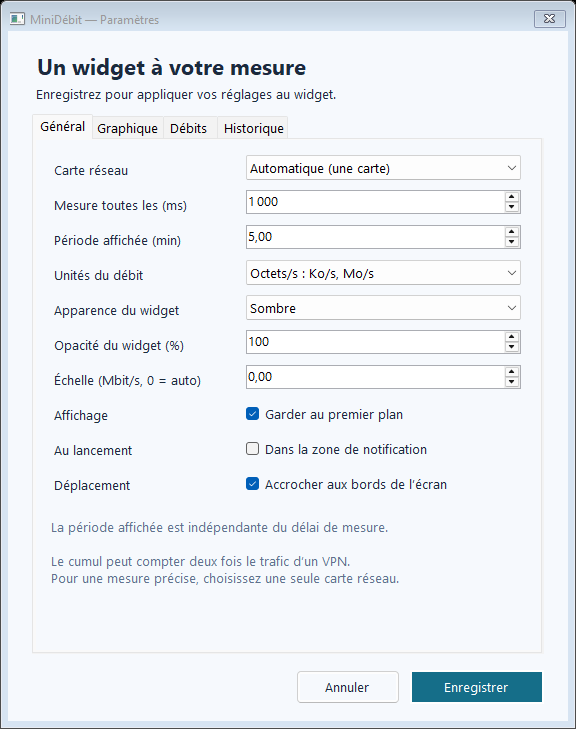
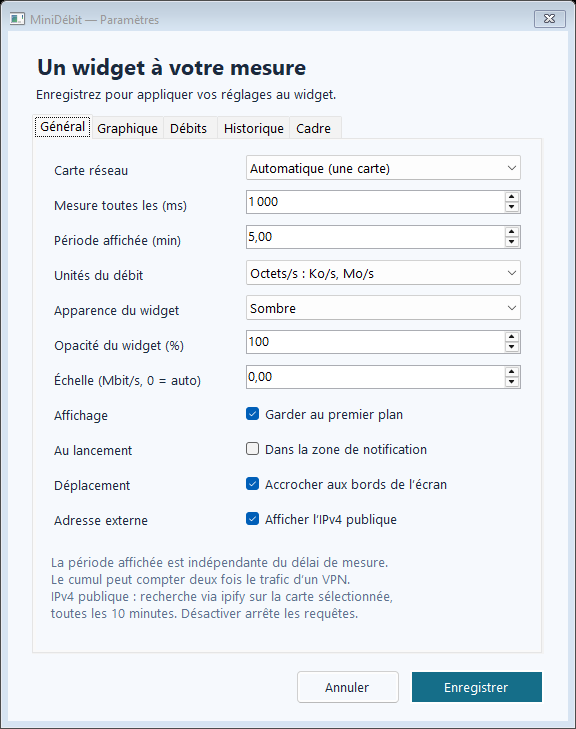
Ajout IPv4 publique et placement des réglages
Cette mise à jour ajoute la détection de l’IPv4 publique de la carte sélectionnée via ipify, avec cache, délai de réessai et gestion des erreurs. La version passe à 1.1.6, les paramètres incluent un bouton pour afficher ou masquer cette adresse, et le widget affiche cette information dans le bandeau sans bloquer les mesures. Le placement des paramètres s’adapte aux écrans et la documentation/tests sont alignés sur ce comportement.

Changed region(s): [[0.0625, 0.6941, 0.6875, 0.845], [0.5312, 0.1509, 0.5625, 0.1811]]

diff --git a/Bandwidth/PublicIpv4.cs b/Bandwidth/PublicIpv4.cs
@@ -1,0 +1,90 @@
+using System.Net;
+using System.Net.Sockets;
+
+namespace MiniDebit;
+
+public sealed record PublicIpv4Target(string AdapterId, IPAddress Address, int InterfaceIndex);
+
+public sealed class PublicIpv4 : IDisposable
+{
+    private readonly Func<PublicIpv4Target, CancellationToken, Task<string?>> lookup;
+    private PublicIpv4Target? target;
+    private Task<(string? Address, string? Error)>? pending;
+    private CancellationTokenSource? cancellation;
+    private long nextAttempt;
+    public string? Address { get; private set; }
+    public string? LastError { get; private set; }
+    public PublicIpv4(Func<PublicIpv4Target, CancellationToken, Task<string?>>? lookup = null) => this.lookup = lookup ?? LookupAsync;
+
+    // The UI timer only consumes completed results; all network operations run in the background.
+    public void Update(PublicIpv4Target? selected, bool enabled)
+    {
+        if (!enabled) selected = null;
+        if (selected != target) { Cancel(); target = selected; Address = null; LastError = null; nextAttempt = 0; }
+        if (target is null) return;
+        long now = Environment.TickCount64;
+        if (pending?.IsCompleted == true)
+        {
+            (Address, LastError) = pending.GetAwaiter().GetResult();
+            pending = null; cancellation?.Dispose(); cancellation = null;
+            nextAttempt = now + (Address is null ? 60_000 : 600_000);
+        }
+        if (pending is not null || now < nextAttempt) return;
+        var current = target;
+        cancellation = new CancellationTokenSource(TimeSpan.FromSeconds(8));
+        var token = cancellation.Token;
+        pending = Task.Run(async () =>
+        {
+            try { var result = Parse(await lookup(current, token)); return (Address: result, Error: result is null ? "Réponse IPv4 invalide" : null); }
+            catch (Exception ex) when (ex is HttpRequestException or SocketException or IOException or OperationCanceledException)
+            { return (Address: (string?)null, Error: (string?)ex.Message); }
+        });
+    }
+
+    public static string? Parse(string? text)
+    {
+        var value = text?.Trim();
+        if (value is null || value.Length > 15 || value.Split('.').Length != 4 ||
+            !IPAddress.TryParse(value, out var ip) || ip.AddressFamily != AddressFamily.InterNetwork) return null;
+        var b = ip.GetAddressBytes();
+        if (b[0] is 0 or 10 or 127 || b[0] >= 224 || (b[0] == 169 && b[1] == 254) ||
+            (b[0] == 192 && b[1] == 168) || (b[0] == 172 && b[1] is >= 16 and <= 31) ||
+            (b[0] == 100 && b[1] is >= 64 and <= 127)) return null;
+        return ip.ToString();
+    }
+
+    public static async Task<string?> LookupAsync(PublicIpv4Target target, CancellationToken token)
+    {
+        using var handler = new SocketsHttpHandler { UseProxy = false, AllowAutoRedirect = false };
+        handler.ConnectCallback = async (context, cancellation) =>
+        {
+            var addresses = await Dns.GetHostAddressesAsync(context.DnsEndPoint.Host, AddressFamily.InterNetwork, cancellation);
+            foreach (var address in addresses)
+            {
+                var socket = new Socket(AddressFamily.InterNetwork, SocketType.Stream, ProtocolType.Tcp);
+                try
+                {
+                    // Windows IP_UNICAST_IF requires the interface index in network byte order.
+                    socket.SetSocketOption(SocketOptionLevel.IP, (SocketOptionName)31, IPAddress.HostToNetworkOrder(target.InterfaceIndex));
+                    socket.Bind(new IPEndPoint(target.Address, 0));
+                    await socket.ConnectAsync(new IPEndPoint(address, context.DnsEndPoint.Port), cancellation);
+                    return new NetworkStream(socket, ownsSocket: true);
+                }
+                catch (SocketException) { socket.Dispose(); }
+                catch { socket.Dispose(); throw; }
+            }
+            throw new HttpRequestException("Connexion IPv4 indisponible sur cette carte.");
+        };
+        using var client = new HttpClient(handler) { Timeout = TimeSpan.FromSeconds(8) };
+        using var response = await client.GetAsync("https://api.ipify.org", HttpCompletionOption.ResponseHeadersRead, token);
+        response.EnsureSuccessStatusCode();
+        using var stream = await response.Content.ReadAsStreamAsync(token);
+        var bytes = new byte[64];
+        int count = 0, read;
+        while (count < bytes.Length && (read = await stream.ReadAsync(bytes.AsMemory(count), token)) > 0) count += read;
+        return Parse(System.Text.Encoding.ASCII.GetString(bytes, 0, count));
+    }
+
+    private void Cancel() { cancellation?.Cancel(); cancellation?.Dispose(); cancellation = null; pending = null; }
+    public void Dispose() => Cancel();
+}

diff --git a/Bandwidth/Widget.cs b/Bandwidth/Widget.cs
@@ -10,6 +10,7 @@ public sealed class Widget : Form
     private readonly Settings settings;
     private readonly bool diagnostic;
     private readonly NetworkMonitor monitor = new();
+    private readonly PublicIpv4 publicIpv4 = new();
     private readonly WindowDrag drag = new();
     private readonly HistoryRecorder recorder;
     private readonly Queue<Sample> history = new();
@@ -33,6 +34,9 @@ public sealed class Widget : Form
     private double scale = 125000;
     private TrafficPeak visiblePeak;
     public string MonitorStatus => monitor.Status;
+    public string? ExternalIpv4 => publicIpv4.Address;
+    public string? ExternalIpv4Error => publicIpv4.LastError;
+    private string AdapterCaption => publicIpv4.Address is { } address ? $"{monitor.Status} ({address})" : monitor.Status;
     public int SampleCount { get; private set; }
     public double TotalDown => monitor.TotalDown;
     public double TotalUp => monitor.TotalUp;
@@ -107,6 +111,7 @@ public sealed class Widget : Form
     private void ApplySettings()
     {
         settings.Normalize();
+        publicIpv4.Update(monitor.PublicIpv4Target, settings.ShowPublicIpv4);
         recorder.Configure(settings.Storage);
         var numbers = settings.Rates.CreateFont();
         var captions = settings.Rates.CreateFont(true);
@@ -122,6 +127,7 @@ public sealed class Widget : Form
     private void Tick()
     {
         current = monitor.Poll(settings.AdapterId);
+        publicIpv4.Update(monitor.PublicIpv4Target, settings.ShowPublicIpv4);
         recorder.Record(current, monitor.ActiveAdapterKey, monitor.Status, settings.IntervalMs);
         SampleCount++;
         history.Enqueue(current);
@@ -138,7 +144,7 @@ public sealed class Widget : Form
         {
             var text = $"MiniDébit · ↓ {Units.Rate(current.Down, settings.Bits)} · ↑ {Units.Rate(current.Up, settings.Bits)}";
             tray.Text = text.Length > 63 ? text[..63] : text;
-            tooltip.SetToolTip(this, $"{monitor.Status}\nSession : ↓ {Units.Volume(monitor.TotalDown)}   ↑ {Units.Volume(monitor.TotalUp)}\nÉchelle : {Units.Rate(scale, settings.Bits)} • Période : {Units.Duration(settings.HistorySeconds)}\nClic droit ou double-clic : paramètres");
+            tooltip.SetToolTip(this, $"{AdapterCaption}\nSession : ↓ {Units.Volume(monitor.TotalDown)}   ↑ {Units.Volume(monitor.TotalUp)}\nÉchelle : {Units.Rate(scale, settings.Bits)} • Période : {Units.Duration(settings.HistorySeconds)}\nClic droit ou double-clic : paramètres");
         }
         if (Visible) Invalidate();
     }
@@ -181,7 +187,7 @@ public sealed class Widget : Form
             using var accent = new SolidBrush(DownColor);
             g.FillEllipse(accent, 13, 14, 6, 6);
             DrawText(g, "MINIDÉBIT", titleFont, Foreground, new RectangleF(25, 8, 105, 20));
-            DrawText(g, monitor.Status, smallFont, Muted, new RectangleF(13, 30, w - 26, 16));
+            DrawText(g, AdapterCaption, smallFont, Muted, new RectangleF(13, 30, w - 26, 16));
             DrawButton(g, 0, "⚙", w - 81);
             DrawButton(g, 1, "−", w - 55);
             DrawButton(g, 2, "×", w - 29);
@@ -380,6 +386,7 @@ public sealed class Widget : Form
     private void OpenSettings()
     {
         using var dialog = new SettingsForm(settings, ownedIcon!, () => recorder.Status);
+        if (Visible) { dialog.StartPosition = FormStartPosition.Manual; dialog.Location = Location; }
         if (dialog.ShowDialog(this) != DialogResult.OK) return;
         if (dialog.MeasurementChanged) ResetMeasurements();
         ApplySettings();
@@ -413,6 +420,7 @@ public sealed class Widget : Form
     protected override void OnFormClosing(FormClosingEventArgs e)
     {
         timer.Stop();
+        publicIpv4.Dispose();
         recorder.Dispose();
         SaveSettings();
         base.OnFormClosing(e);
@@ -424,6 +432,7 @@ public sealed class Widget : Form
         {
             timer.Dispose(); tray.Dispose(); menu.Dispose(); tooltip.Dispose();
             recorder.Dispose();
+            publicIpv4.Dispose();
             titleFont.Dispose(); smallFont.Dispose(); rateFont.Dispose(); labelFont.Dispose(); arrowFont.Dispose(); ownedIcon?.Dispose();
         }
         base.Dispose(disposing);

diff --git a/Bandwidth/SettingsForm.cs b/Bandwidth/SettingsForm.cs
@@ -9,6 +9,18 @@ public sealed class SettingsForm : Form
     internal void SelectHistoryTab() => tabs.SelectedIndex = 3;
     internal void SelectFrameTab() => tabs.SelectedIndex = 4;
 
+    protected override void OnLoad(EventArgs e)
+    {
+        base.OnLoad(e);
+        if (Owner is Widget widget && widget.Visible)
+        {
+            var current = Screen.FromRectangle(widget.Bounds);
+            var areas = Screen.AllScreens.OrderBy(screen => screen.DeviceName == current.DeviceName ? 0 : 1)
+                .Select(screen => screen.WorkingArea).ToArray();
+            Location = WindowPlacement.Beside(Size, widget.Bounds, areas, (int)Math.Round(12 * DeviceDpi / 96f));
+        }
+    }
+
     public SettingsForm(Settings settings, Icon icon, Func<string>? storageStatus = null)
     {
         Text = "MiniDébit — Paramètres";
@@ -54,7 +66,7 @@ public sealed class SettingsForm : Form
             table.Controls.Add(new Label { Text = label, Dock = DockStyle.Fill, TextAlign = ContentAlignment.MiddleLeft }, 0, row);
             table.Controls.Add(control, 1, row);
         }
-        var table = Table(general, 10, 35);
+        var table = Table(general, 11, 35);
         var adapter = Choice(new AdapterChoice("auto", "Automatique (une carte)"), new AdapterChoice("all", "Toutes les cartes (cumul)"));
         try { adapter.Items.AddRange(NetworkMonitor.Choices().Cast<object>().ToArray()); }
         catch (System.Net.NetworkInformation.NetworkInformationException) { }
@@ -76,7 +88,9 @@ public sealed class SettingsForm : Form
         Row(table, 8, "Au lancement", hidden);
         var snap = new CheckBox { Text = "Accrocher aux bords de l’écran", Checked = settings.SnapToEdges, Dock = DockStyle.Fill };
         Row(table, 9, "Déplacement", snap);
-        general.Controls.Add(new Label { Location = new Point(12, 378), Size = new Size(476, 80), ForeColor = Color.FromArgb(94, 115, 141), Text = "La période affichée est indépendante du délai de mesure.\n\nLe cumul peut compter deux fois le trafic d’un VPN.\nPour une mesure précise, choisissez une seule carte réseau." });
+        var showPublicIpv4 = new CheckBox { Text = "Afficher l’IPv4 publique", Checked = settings.ShowPublicIpv4, Dock = DockStyle.Fill };
+        Row(table, 10, "Adresse externe", showPublicIpv4);
+        general.Controls.Add(new Label { Location = new Point(12, 413), Size = new Size(476, 85), ForeColor = Color.FromArgb(94, 115, 141), Text = "La période affichée est indépendante du délai de mesure.\nLe cumul peut compter deux fois le trafic d’un VPN.\nIPv4 publique : recherche via ipify sur la carte sélectionnée,\ntoutes les 10 minutes. Désactiver arrête les requêtes." });
 
         var appearance = settings.Graph;
         var graphTable = Table(graph, 12, 30);
@@ -274,6 +288,7 @@ public sealed class SettingsForm : Form
             settings.AlwaysOnTop = onTop.Checked;
             settings.StartHidden = hidden.Checked;
             settings.SnapToEdges = snap.Checked;
+            settings.ShowPublicIpv4 = showPublicIpv4.Checked;
             settings.Graph = ReadAppearance();
             settings.Rates = ReadRates();
             settings.Frame = ReadFrame();

diff --git a/Tests/Program.cs b/Tests/Program.cs
@@ -8,6 +8,44 @@ void Check(bool condition, string description)
     Console.WriteLine($"OK {++count:00} — {description}");
 }
 var now = DateTimeOffset.Now;
+Check(PublicIpv4.Parse("203.0.113.42\n") == "203.0.113.42" && PublicIpv4.Parse("2001:db8::1") is null &&
+    PublicIpv4.Parse("192.168.1.2") is null && PublicIpv4.Parse("<html>Erreur</html>") is null,
+    "La réponse externe doit contenir une IPv4, jamais une IP locale ou une page d’erreur");
+int ipCalls = 0;
+var ipAnswer = new TaskCompletionSource<string?>(TaskCreationOptions.RunContinuationsAsynchronously);
+using var ipStarted = new ManualResetEventSlim();
+var ipTarget = new PublicIpv4Target("test", System.Net.IPAddress.Parse("192.168.1.2"), 1);
+using (var resolver = new PublicIpv4((_, _) => { Interlocked.Increment(ref ipCalls); ipStarted.Set(); return ipAnswer.Task; }))
+{
+    resolver.Update(ipTarget, false);
+    Check(ipCalls == 0 && resolver.Address is null, "L’IPv4 publique désactivée ne lance aucune requête");
+    resolver.Update(ipTarget, true);
+    Check(ipStarted.Wait(2000) && resolver.Address is null, "Une requête inachevée ne bloque pas le minuteur");
+    ipAnswer.SetResult("203.0.113.42");
+    Check(SpinWait.SpinUntil(() => { resolver.Update(ipTarget, true); return resolver.Address is not null; }, 2000),
+        "Le résultat asynchrone devient disponible pour le bandeau");
+    for (int i = 0; i < 100; i++) resolver.Update(ipTarget, true);
+    Check(ipCalls == 1, "Le cache évite une requête Internet à chaque mesure");
+    resolver.Update(ipTarget, false);
+    Check(resolver.Address is null, "Désactiver masque immédiatement l’adresse mémorisée");
+}
+var oldAnswer = new TaskCompletionSource<string?>(TaskCreationOptions.RunContinuationsAsynchronously);
+using var oldStarted = new ManualResetEventSlim();
+using (var resolver = new PublicIpv4((_, _) => { oldStarted.Set(); return oldAnswer.Task; }))
+{
+    resolver.Update(ipTarget, true); oldStarted.Wait(2000);
+    resolver.Update(null, true); oldAnswer.SetResult("203.0.113.42");
+    resolver.Update(null, true);
+    Check(resolver.Address is null, "Une réponse tardive d’une ancienne carte ne peut pas être affichée");
+}
+using var errorStarted = new ManualResetEventSlim();
+int errorCalls = 0;
+using (var resolver = new PublicIpv4((_, _) => { Interlocked.Increment(ref errorCalls); errorStarted.Set(); throw new System.Net.Http.HttpRequestException("test"); }))
+{
+    resolver.Update(ipTarget, true); errorStarted.Wait(2000);
+    Thread.Sleep(20); resolver.Update(ipTarget, true);
+    Check(resolver.Address is null && errorCalls == 1, "Une erreur Internet laisse les mesures fonctionner sans réessai immédiat");
+}
 var desktop = new System.Drawing.Rectangle(0, 0, 1920, 1040);
 var slowDrag = new WindowDrag();
 var dragged = new System.Drawing.Rectangle(0, 0, 340, 176);

diff --git a/Bandwidth/NetworkMonitor.cs b/Bandwidth/NetworkMonitor.cs
@@ -66,6 +66,7 @@ public sealed class NetworkMonitor
     private readonly RateAccumulator accumulator = new();
     public string Status { get; private set; } = "Initialisation…";
     public string ActiveAdapterKey { get; private set; } = "";
+    public PublicIpv4Target? PublicIpv4Target { get; private set; }
     public double TotalDown => accumulator.TotalDown;
     public double TotalUp => accumulator.TotalUp;
 
@@ -82,7 +83,8 @@ public sealed class NetworkMonitor
         if (selection != adapterId) { Reset(); selection = adapterId; }
         try
         {
-            if (lastRefresh == 0 || Stopwatch.GetElapsedTime(lastRefresh, now).TotalSeconds >= 5)
+            bool refreshed = lastRefresh == 0 || Stopwatch.GetElapsedTime(lastRefresh, now).TotalSeconds >= 5;
+            if (refreshed)
             {
                 adapters = NetworkInterface.GetAllNetworkInterfaces();
                 lastRefresh = now;
@@ -112,6 +114,20 @@ public sealed class NetworkMonitor
             }
             Status = counters.Count == 0 ? "Aucune interface active" : adapterId == "all" ? $"{counters.Count} interfaces • cumul" : selected[0].Name;
             ActiveAdapterKey = string.Join(",", counters.Select(c => c.Id));
+            if (counters.Count != 1 || selected.Length != 1) PublicIpv4Target = null;
+            else if (refreshed || PublicIpv4Target?.AdapterId != selected[0].Id)
+            {
+                PublicIpv4Target = null;
+                try
+                {
+                    var properties = selected[0].GetIPProperties();
+                    var address = properties.UnicastAddresses.FirstOrDefault(a => a.Address.AddressFamily == System.Net.Sockets.AddressFamily.InterNetwork &&
+                        !System.Net.IPAddress.IsLoopback(a.Address) && !a.Address.ToString().StartsWith("169.254.", StringComparison.Ordinal));
+                    if (address is not null && properties.GetIPv4Properties() is { } ipv4)
+                        PublicIpv4Target = new(selected[0].Id, address.Address, ipv4.Index);
+                }
+                catch (Exception ex) when (ex is NetworkInformationException or PlatformNotSupportedException) { }
+            }
             var elapsed = lastSample == 0 ? 0 : Stopwatch.GetElapsedTime(lastSample, now).TotalSeconds;
             lastSample = now;
             return accumulator.Update(counters, elapsed, DateTimeOffset.Now);
@@ -120,6 +136,7 @@ public sealed class NetworkMonitor
         {
             Status = "Mesure indisponible";
             ActiveAdapterKey = "";
+            PublicIpv4Target = null;
             lastRefresh = 0;
             lastSample = now;
             return accumulator.Update([], 0, DateTimeOffset.Now);

diff --git a/Bandwidth/WindowPlacement.cs b/Bandwidth/WindowPlacement.cs
@@ -2,6 +2,30 @@ namespace MiniDebit;
 
 public static class WindowPlacement
 {
+    public static Point Beside(Size size, Rectangle widget, IReadOnlyList<Rectangle> workingAreas, int gap)
+    {
+        Rectangle? fallback = null;
+        long leastOverlap = long.MaxValue;
+        foreach (var area in workingAreas)
+        {
+            Point[] candidates = [new(widget.Right + gap, widget.Top), new(widget.Left - size.Width - gap, widget.Top),
+                new(widget.Left, widget.Top - size.Height - gap), new(widget.Left, widget.Bottom + gap),
+                area.Location, new(area.Right - size.Width, area.Top), new(area.Left, area.Bottom - size.Height),
+                new(area.Right - size.Width, area.Bottom - size.Height)];
+            foreach (var candidate in candidates)
+            {
+                var placed = new Rectangle(Math.Clamp(candidate.X, area.Left, Math.Max(area.Left, area.Right - size.Width)),
+                    Math.Clamp(candidate.Y, area.Top, Math.Max(area.Top, area.Bottom - size.Height)), size.Width, size.Height);
+                var protectedWidget = widget; protectedWidget.Inflate(gap, gap);
+                if (area.Contains(placed) && !placed.IntersectsWith(protectedWidget)) return placed.Location;
+                var intersection = Rectangle.Intersect(widget, placed);
+                long overlap = (long)Math.Max(0, intersection.Width) * Math.Max(0, intersection.Height);
+                if (overlap < leastOverlap) { fallback = placed; leastOverlap = overlap; }
+            }
+        }
+        return fallback?.Location ?? widget.Location;
+    }
+
     // All coordinates are physical screen pixels, including negative monitor origins.
     public static Rectangle Snap(Rectangle bounds, Rectangle workingArea, int distance)
     {

diff --git a/Bandwidth/Program.cs b/Bandwidth/Program.cs
@@ -79,7 +79,7 @@ internal static class Program
                         process.Refresh();
                         File.WriteAllText(report, JsonSerializer.Serialize(new
                         {
-                            Adapter = window.MonitorStatus, window.SampleCount,
+                            Adapter = window.MonitorStatus, window.ExternalIpv4, window.ExternalIpv4Error, window.SampleCount,
                             window.TotalDown, window.TotalUp,
                             window.StoredSamples, window.DroppedSamples, window.StorageStatus,
                             WorkingSetMiB = process.WorkingSet64 / 1048576.0,

diff --git a/Bandwidth/Settings.cs b/Bandwidth/Settings.cs
@@ -13,6 +13,7 @@ public sealed class Settings
     public bool AlwaysOnTop { get; set; } = true;
     public bool StartHidden { get; set; }
     public bool SnapToEdges { get; set; } = true;
+    public bool ShowPublicIpv4 { get; set; } = true;
     public int OpacityPercent { get; set; } = 100;
     public double FixedScaleMbps { get; set; }
     public GraphAppearance Graph { get; set; } = new();

diff --git a/README.md b/README.md
@@ -22,6 +22,7 @@ La distribution inclut le programme, ses fichiers .NET et ce guide ; elle n’em
 - Pendant le déplacement, le widget **accroche aux quatre bords** à environ 8 px (adaptés à la mise à l’échelle Windows). Éloigner la souris du bord le détache, même en déplaçant lentement la souris. Le point de prise initial reste la référence pendant tout le déplacement. Le widget reste dans la zone utilisable du moniteur sous le pointeur, au-dessus d’une barre des tâches en bas ou à côté d’une barre latérale. Déplacer le pointeur sur un autre écran pour y faire passer le widget. **Général → Déplacement → Accrocher aux bords de l’écran**, activé par défaut, permet de désactiver ce comportement. La position est mémorisée à la fin du déplacement.
 - Le **bandeau supérieur** (titre, carte réseau, boutons, échelle et durée) apparaît uniquement lorsque la souris survole le widget. Hors survol, le graphique récupère cet espace ; les débits restent visibles en bas.
 - **Roue dentée**, **double-clic** ou **clic droit → Paramètres** : configurer le widget.
+- Si le widget est visible, les paramètres s’ouvrent à côté, avec un espace de 12 px adapté à l’échelle Windows. Le placement cherche une place libre à droite, à gauche, au-dessus ou au-dessous, puis sur les autres écrans, en respectant la barre des tâches. Si les dimensions des écrans ne permettent aucune disposition sans recouvrement, il minimise la surface recouverte.
 - **−** ou **Échap** : masquer le widget dans la zone de notification près de l’horloge. Son icône peut se trouver dans le menu des icônes masquées de Windows.
 - **Double-clic sur l’icône** : afficher le widget.
 - **×** ou **Quitter** : arrêter l’application.
@@ -29,6 +30,12 @@ La distribution inclut le programme, ses fichiers .NET et ce guide ; elle n’em
 - Survoler le widget : consulter les volumes reçus/envoyés depuis le lancement ou la dernière remise à zéro.
 
 La position, les dimensions et les paramètres sont mémorisés dans `%LOCALAPPDATA%\MiniDebit\settings.json`. Fermer l’application puis supprimer ce fichier pour retrouver les valeurs par défaut.
+
+Au survol, le nom de la carte peut afficher son **IPv4 publique entre parenthèses**, par exemple `Ethernet 2 (203.0.113.42)`. **Général → Adresse externe → Afficher l’IPv4 publique**, activé par défaut, permet d’activer ou de désactiver cette information. Désactiver masque immédiatement l’adresse et annule la recherche en cours ; aucune nouvelle requête n’est lancée.
+
+La recherche HTTPS utilise le service [ipify](https://www.ipify.org), en arrière-plan, au lancement, lorsque la carte ou son IPv4 locale change, puis toutes les dix minutes. Le socket est lié à l’IPv4 locale et à l’interface Windows sélectionnée ; aucun proxy système ni basculement sur une autre carte n’est utilisé. Après un échec, le délai avant réessai est d’une minute, avec huit secondes maximum par tentative. L’IPv4 publique est celle observée par le service sur cette connexion : elle peut appartenir au routeur ou à une sortie VPN, et différer de l’IPv4 locale de la carte.
+
+Si la carte est hors ligne, sans IPv4 ou sans accès à ce service, le nom reste affiché seul. Le mode cumul de plusieurs cartes ne présente pas une adresse publique unique. Les débits, le graphique et SQLite continuent de fonctionner indépendamment de la recherche ; l’adresse publique n’est pas enregistrée dans la base.
 
 ## Réglages
 
